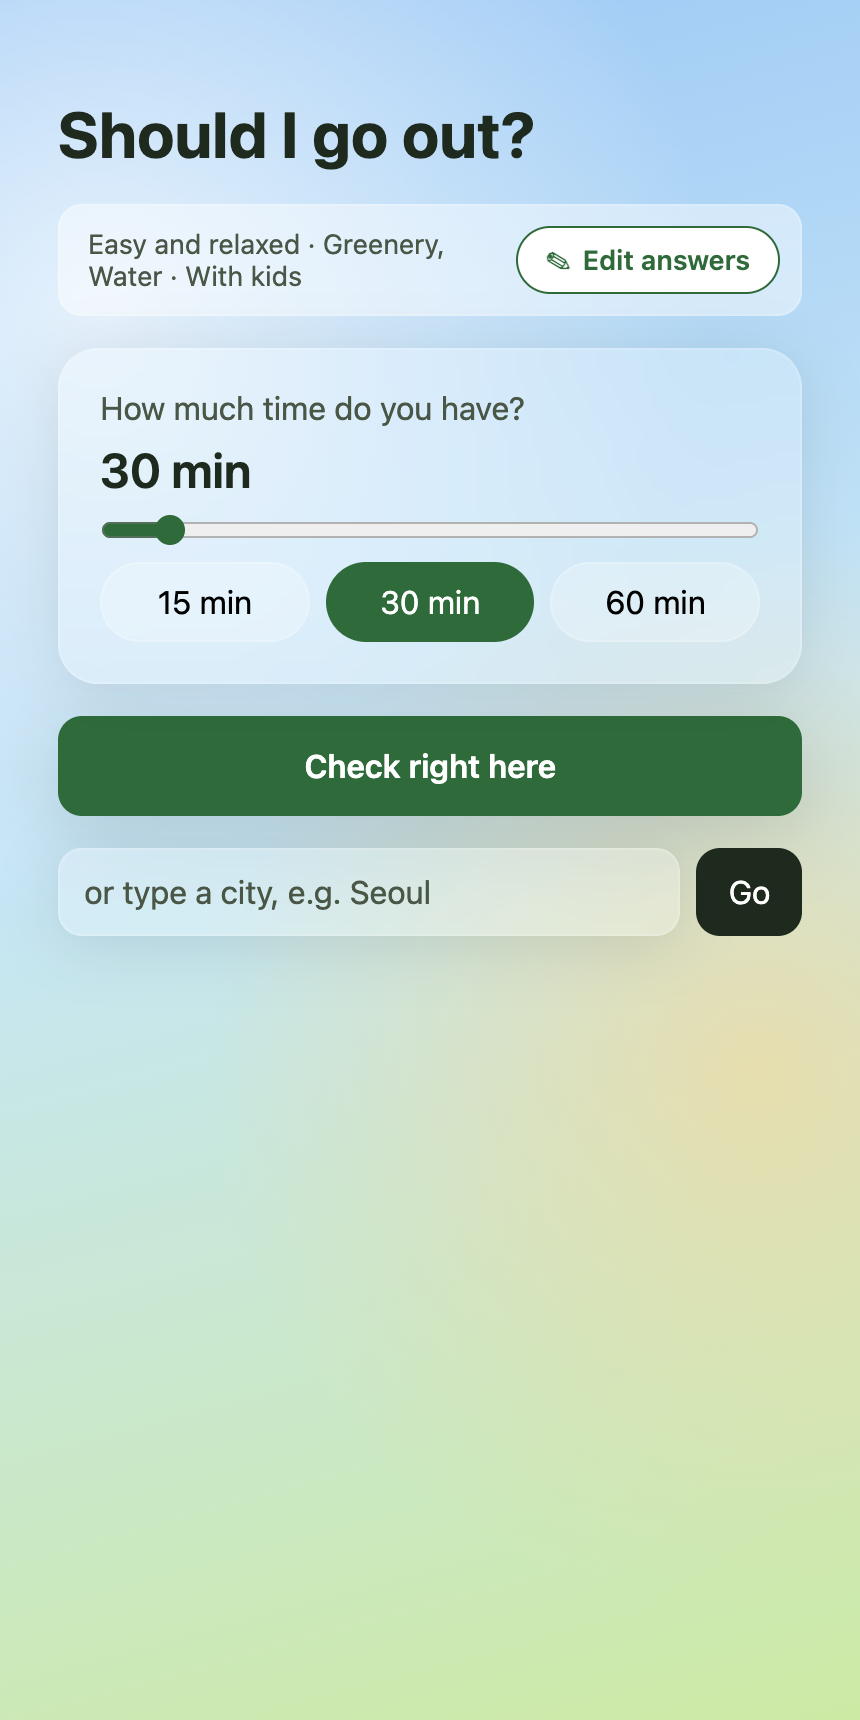
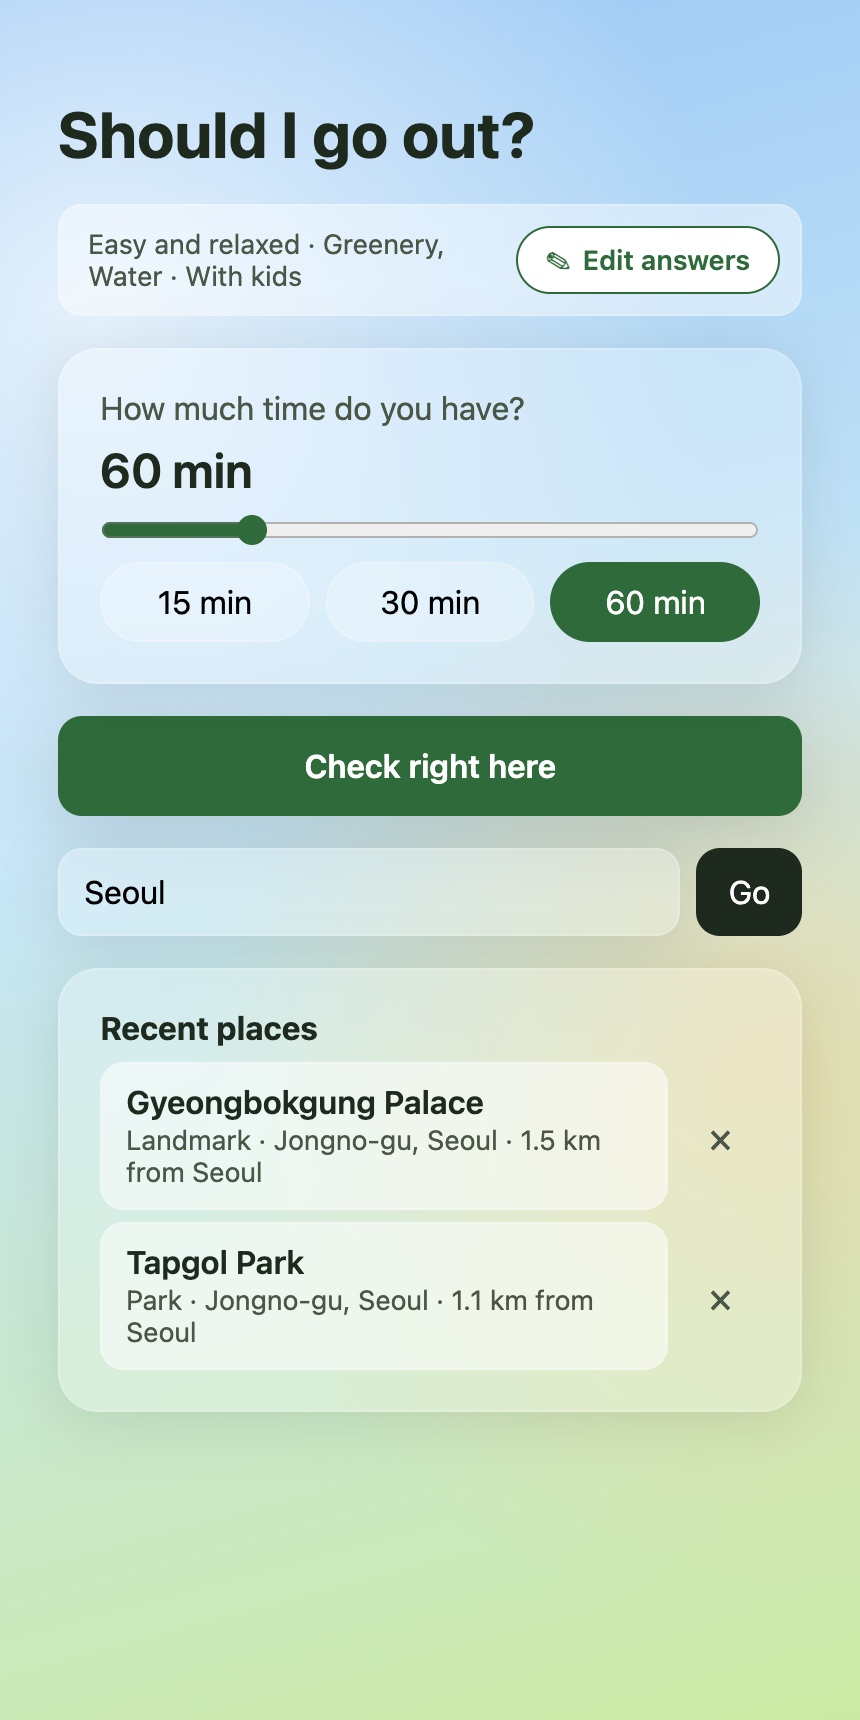
docs: describe another place and recent places
- README: intro, How it works, and screenshot alt text
- Recapture home, result, and the demo GIF
- AGENTS.md: list the new component, hook, and service

Entire-Checkpoint: 01M49VZ8HY0WACD5RHSH29FJPA

diff --git a/README.md b/README.md
@@ -3,19 +3,19 @@
 One tap, one suggestion, then put your phone away.
 
 <p align="center">
-  <img src="docs/demo.gif" width="300" alt="Answering the questionnaire, choosing 60 minutes in Seoul, getting a park walk with things to do, a Preview your walk button, the weather, and a route map opened full screen and closed again, then switching outfits for people who run cold or warm">
+  <img src="docs/demo.gif" width="300" alt="Answering the questionnaire, choosing 60 minutes in Seoul, getting a walk to Tapgol Park, tapping Another place to get Gyeongbokgung Palace instead, the weather, and a route map opened full screen and closed again, switching outfits for people who run cold or warm, then going back to the home screen where both places are listed under Recent places">
   <img src="docs/preview.gif" width="270" alt="Highlights of the walk preview video: a 3D map of central Seoul with your next 11 minutes and what to wear, a green location puck walking the route to Cheonggyecheon Stream Park past 3D buildings, photos of the park as cards over a soft blurred copy with a thing to do under each, and a pull-back over the neighborhood with Ready when you are, a green underline, and when to leave and be back">
 </p>
 
 <p align="center">
   <img src="docs/questionnaire.png" width="200" alt="First-visit questionnaire with a button to let the AI decide everything">
-  <img src="docs/home.png" width="200" alt="Home screen with a summary of the saved answers, an Edit answers button, and the time slider">
-  <img src="docs/result.png" width="200" alt="Suggested walk to a park with a playground, things to do there, the Preview your walk button, and the weather panel">
+  <img src="docs/home.png" width="200" alt="Home screen with a summary of the saved answers, an Edit answers button, the time slider, Seoul still typed in the city box, and Recent places listing Gyeongbokgung Palace and Tapgol Park with their district, kind, and distance, each with a remove button">
+  <img src="docs/result.png" width="200" alt="Suggested walk to Tapgol Park in Jongno-gu, Seoul, with things to do there, an Another place button to try somewhere else around Seoul, the Preview your walk button, and the weather panel">
   <img src="docs/outfit-cold.png" width="200" alt="Outfit for people who run cold, shown on an avatar and item cards">
   <img src="docs/map-full.png" width="200" alt="Full-screen map of the walking route from Seoul City Hall to Cheonggyecheon Stream Park, with a close button and the round-trip distance and time at the bottom">
 </p>
 
-On your first visit, a short questionnaire asks how you like to move, what you enjoy, who usually comes along, and whether you ride public bikes; you can also skip it and let the AI decide everything. The app then checks the weather, air quality, nearby parks, and (in Seoul, if you said yes to public bikes) bike stations, and asks Gemma running locally through Ollama to pick a single outdoor activity that fits the time you have and your answers. It suggests a few things to do once you get there, shows a round-trip walking route on a map (tap "Full map" to open it over the whole screen), and dresses an avatar for the weather. Tap "Preview your walk" to watch a music video of about 30 seconds of the outing that you can save or share: a 3D flyover of the real streets from your door to the park, following you along the route, circling the park, showing real photos of it when a Mapillary token is set, and ending on when to leave and be back. If the 3D map can't load, it is an illustrated story instead (getting dressed, the route, the park, and each thing to do).
+On your first visit, a short questionnaire asks how you like to move, what you enjoy, who usually comes along, and whether you ride public bikes; you can also skip it and let the AI decide everything. The app then checks the weather, air quality, nearby parks, and (in Seoul, if you said yes to public bikes) bike stations, and asks Gemma running locally through Ollama to pick a single outdoor activity that fits the time you have and your answers. It suggests a few things to do once you get there, shows a round-trip walking route on a map (tap "Full map" to open it over the whole screen), and dresses an avatar for the weather. Not keen on the place? Tap "Another place" for a different park or landmark around the same city, without the ones you've already seen. Every suggested place is kept under "Recent places" on the home screen, so you can pick it again later. Tap "Preview your walk" to watch a music video of about 30 seconds of the outing that you can save or share: a 3D flyover of the real streets from your door to the park, following you along the route, circling the park, showing real photos of it when a Mapillary token is set, and ending on when to leave and be back. If the 3D map can't load, it is an illustrated story instead (getting dressed, the route, the park, and each thing to do).
 
 ## Run locally
 
@@ -46,9 +46,11 @@ Code style is checked with [Biome](https://biomejs.dev) (`biome.json`): `pnpm fo
 
 ## How it works
 
-- `apps/server/src/conditions/` fetches Open-Meteo weather and air quality, parks within walking range from Nominatim, what each park has (playground, water, viewpoint, and so on) from Overpass, walking and cycling routes from OSRM (all keyless), and Seoul bike stations. The public Overpass server is often slow, so the app waits at most 3 seconds for it and caches park features for a day.
+- `apps/server/src/conditions/` fetches Open-Meteo weather and air quality, parks (and, when you ask for another place, landmarks) within walking range from Nominatim, what each park has (playground, water, viewpoint, and so on) from Overpass, walking and cycling routes from OSRM (all keyless), and Seoul bike stations. The public Overpass server is often slow, so the app waits at most 3 seconds for it and caches park features for a day.
 - Parks are first searched by straight-line distance, assuming paths are about 1.3 times longer. One OSRM request then measures the real round trip to every park (at the same time as the features lookup, also waiting at most 3 seconds), and parks whose walk there and back takes longer than the time you chose are dropped before Gemma picks. The card's time always covers the real route shown on the map. For a bike suggestion, the route is the walk to the station, the ride to the park and back (OSRM's bike profile), and the walk home, plus 2 minutes to rent and return the bike; the map marks the station with a bike icon and draws the walks to and from it as dashed lines and the ride as a solid line, the map caption and the preview show the riding and walking minutes, and the directions button opens cycling directions through the station.
 - When you said yes to public bikes and a nearby station has bikes, a second Nominatim search (at least one second after the first, as its usage policy asks) looks for parks too far to walk. The bike trip to each is measured from the closest station with bikes, and up to 3 of the farthest that fit your time are offered to Gemma as bike-only parks. If Gemma picks one without a station, the server adds that station and names the trip a ride; if it picks a station but describes a walk to a walkable park, the trip stays a walk.
+- "Another place" asks the server again from the same starting point (your location, or the center of the city you typed, which stays in the box) with the names of the places already suggested, so Nominatim's next results take their place. The first suggestion is always a park; asking again after a park looks for landmarks (Nominatim's tourist attractions that have a Wikidata entry, leaving out indoor ones like museums and malls), and after a landmark for parks again, so the two take turns; when one kind runs out, the other stands in. When no new place fits the time, the current one stays and the card says so. Nominatim answers are cached for 30 minutes, so asking again doesn't repeat the same search. Each place carries its city and district from Nominatim's address details.
+- Every suggested place is saved in the browser's localStorage under "Recent places" (newest first, up to 10; the same place suggested again moves to the top instead of being listed twice), with its kind, district and city, and the starting point it was suggested from. Tapping one suggests that place again from the same starting point, even if the walk takes longer than the time you set now (the card shows the real time); ✕ removes it.
 - Things to do at the park may only mention facilities that OpenStreetMap shows there; the server drops any suggestion that names a missing facility or another place.
 - The reason is checked against the measured conditions: a sentence whose temperature, rain chance, air quality index, UV, or wind doesn't match, or that mentions rain when the chance is low (or denies it when rain is likely), is dropped.
 - `apps/server/src/agent.ts` is a Mastra agent pointed at Ollama's OpenAI-compatible endpoint. The model only picks from real candidate parks and a fixed clothing catalog, so it never invents coordinates or items.

diff --git a/AGENTS.md b/AGENTS.md
@@ -161,9 +161,9 @@ changed since the README was last checked and `README.md` wasn't touched.
   checking the model's answer, and the rule-based fallback. `apps/server/src/workflow.ts`: the Mastra workflow.
 - `apps/web/src/`: `App.tsx` (screens) and `main.tsx`, with code grouped by role. Keep `.tsx` files to UI and
   put other code in the matching folder:
-  - `components/`: `Questionnaire`, `ResultCard`, `ResultMap`, `WeatherPanel`, `OutfitCards`, `Avatar`, `WalkPreview`.
-  - `hooks/`: React logic used by screens (`useRecommendation`, `useEscapeKey`).
-  - `services/`: server requests (`api.ts`), browser location and city lookup, saved answers.
+ - `components/`: `Questionnaire`, `ResultCard`, `ResultMap`, `RecentPlaces`, `WeatherPanel`, `OutfitCards`, `Avatar`, `WalkPreview`.
+ - `hooks/`: React logic used by screens (`useRecommendation`, `useRecentPlaces`, `useEscapeKey`).
+ - `services/`: server requests (`api.ts`), browser location and city lookup, saved answers, recent places.
   - `utils/`: pure helpers (geometry, weather levels, route captions, outfit items, directions).
   - `constants/`, `types/`: shared labels and types.
   - `preview/`: the walk preview film (`film.ts`, `flyoverMap.ts`), the illustrated fallback (`story.ts`),
